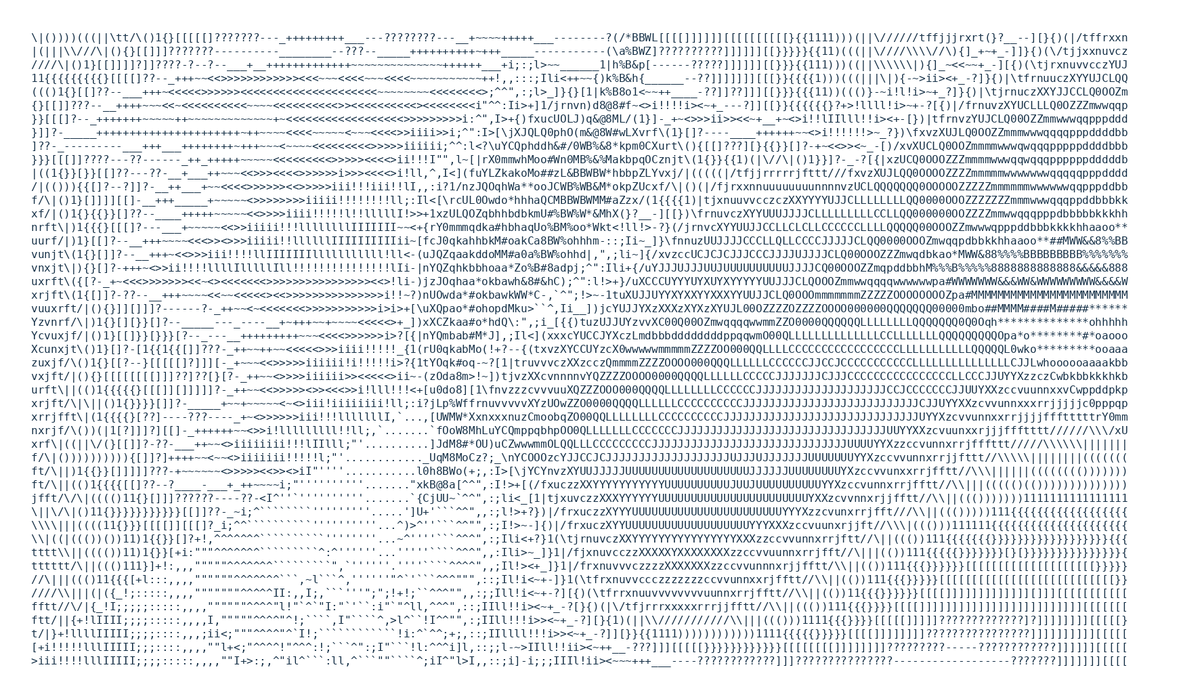
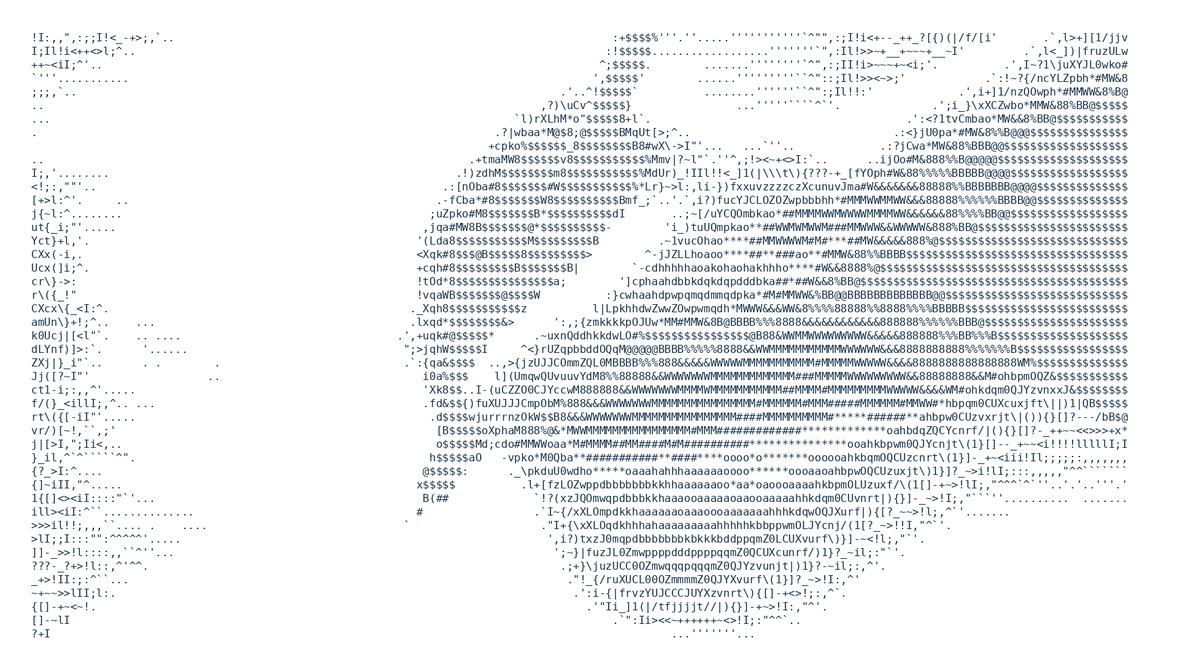
Boost ASCII hero contrast; add asciify --contrast flag
- Add a --contrast flag to scripts/asciify.mjs (Jimp contrast op),
  documented in the tool header and the MODULES.md ASCII section.
- Regenerate the Digital Body Language hero and feature image at
  --contrast 0.55 for a clearer, higher-contrast read.

Claude-Session: https://claude.ai/code/session_01HJod6BZzjwQrAt6JDoA6Vy

diff --git a/public/writing/digital-body-language/index.html b/public/writing/digital-body-language/index.html
@@ -66,53 +66,51 @@
         </div>
         <div class="col-lg-6 article-fold-media">
           <figure class="se-ascii" role="img" aria-label="A letter, written by hand" data-reveal="typewriter" data-reveal-drift>
-<pre class="se-ascii-art" aria-hidden="true">\|())))(((||\tt/\()1{}[[[[[]???????---_+++++++++___---????????---__+~~~~+++++___--------?(/*BBWL[[[[]]]]]][[[[[[[[[[}{{1111)))(||\//////tffjjjrxrt(}?__--][}{)(|/tffrxxn
-|(|||\\///\|(){}[[]]]???????----------________--???--_____++++++++++~+++_____-----------(\a%BWZ]??????????]]]]]][[}}}}}{{11)(((||\////\\\\//\){]_+~+_-]]}{)(\/tjjxxnuvcz
-////\|()1}[[]]]]?]]????-?--?--___+__+++++++++++++~~~~~~~~~~~~~~++++++___+i;:;l&gt;~~______1|h%B&amp;p[------?????]]]]]][[}}}{{111)))((||\\\\\\|){]_~&lt;&lt;~~+_-][{)(\tjrxnuvvcczYUJ
-11{{{{{{{{{}[[[[]??--_+++~~&lt;&lt;&gt;&gt;&gt;&gt;&gt;&gt;&gt;&gt;&gt;&gt;&gt;&gt;&lt;&lt;&lt;~~~&lt;&lt;&lt;&lt;~~~&lt;&lt;&lt;&lt;~~~~~~~~~~~++!,,:::;Ili&lt;++~~{)k%B&amp;h{______--??]]]]]]][[[}}{{{{1)))(((|||\|){-~&gt;ii&gt;&lt;+_-?]}{)|\tfrnuuczXYYUJCLQQ
-((()1{}[[]??--___+++~&lt;&lt;&lt;&lt;&lt;&gt;&gt;&gt;&gt;&gt;&gt;&lt;&lt;&lt;&lt;&lt;&lt;&lt;&lt;&lt;&lt;&lt;&lt;&lt;&lt;&lt;&lt;&lt;&lt;&lt;&lt;&lt;~~~~~~~~&lt;&lt;&lt;&lt;&lt;&lt;&lt;&lt;&gt;;^^",:;l&gt;_]}{}[1|k%B8o1&lt;~~++____-??]]??]]][[}}}{{{11))((()}-~i!l!i&gt;~+_?]}{)|\tjrnuczXXYJJCCLQ0OOZm
-{}[[]]???--__++++~~~&lt;&lt;~&lt;&lt;&lt;&lt;&lt;&lt;&lt;&lt;&lt;&lt;~~~~&lt;&lt;&lt;&lt;&lt;&lt;&lt;&lt;&lt;&lt;&gt;&gt;&lt;&lt;&lt;&lt;&lt;&lt;&lt;&lt;&lt;&lt;&gt;&lt;&lt;&lt;&lt;&lt;&lt;&lt;&lt;i"^^:Ii&gt;+]1/jrnvn)d8@8#f~&lt;&gt;i!!!!i&gt;&lt;~+_---?]][[}}{{{{{{}?+&gt;!llll!i&gt;~+-?[{)|/frnuvzXYUCLLLQ0OZZZmwwqqp
-}}[[[]?--_+++++++~~~~~++~~~~~~~~~~~~~+~&lt;&lt;&lt;&lt;&lt;&lt;&lt;&lt;&lt;&lt;&lt;&lt;&lt;&lt;&lt;&lt;&lt;&lt;&gt;&gt;&gt;&gt;&gt;&gt;&gt;&gt;&gt;i:^",I&gt;+{)fxucUOLJ)q&amp;@8ML/(1}]-_+~&lt;&gt;&gt;&gt;ii&gt;&gt;&lt;&lt;~+__+~&lt;&gt;i!!lIIlll!!i&gt;&lt;+-[})|tfrnvzYUJCLQ00OZZmmwwwqqpppddd
-}]]?-_____++++++++++++++++++++++~++~~~~&lt;&lt;&lt;&lt;~~~~~&lt;~~~&lt;&lt;&lt;&lt;&gt;&gt;iiii&gt;&gt;i;^":I&gt;[\jXJQLQ0phO(m&amp;@8W#wLXvrf\(1}[]?----____++++++~~&lt;&gt;i!!!!!!&gt;~_?})\fxvzXUJLQ0OOZZmmmwwwqqqqpppddddbb
-]??-_---------___+++___++++++++~+++~~~&lt;~~~~&lt;&lt;&lt;&lt;&lt;&lt;&lt;&lt;&lt;&gt;&gt;&gt;&gt;&gt;iiiiii;^^:l&lt;?\uYCQphddh&amp;#/0WB%&amp;8*kpm0CXurt\(){[[]???][}{{}}[]?-+~&lt;&lt;&gt;&gt;&lt;~_-[)/xvXUCLQ0OOZmmmmwwwqwqqqpppppddddbbb
-}}}[[[]]????---??------_++_+++++~~~~~&lt;&lt;&lt;&lt;&lt;&lt;&lt;&lt;&lt;&gt;&gt;&gt;&gt;&gt;&lt;&lt;&lt;&lt;&gt;ii!!!I"",l~[|rX0mmwhMoo#Wn0MB%&amp;%MakbpqOCznjt\(1{}}{{1)(|\//\|()1}}]?-_-?[{|xzUCQ0OOOZZZmmmmwwwqqwqqqppppppdddddb
-|((1{}}[}}[[]??---??-__+___++~~~&lt;&lt;&gt;&gt;&gt;&lt;&lt;&lt;&lt;&gt;&gt;&gt;&gt;&gt;&gt;i&gt;&gt;&gt;&lt;&lt;&lt;&lt;&gt;i!ll,^,I&lt;](fuYLZkakoMo##zL&amp;BBWBW*hbbpZLYvxj/|(((((|/tfjjrrrrrjfttt///fxvzXUJLQQ0OOOOZZZZmmmmmwwwwwwwqqqqqpppdddd
-/|(())){{[]?--?]]?-__++___+~~&lt;&lt;&lt;&lt;&gt;&gt;&gt;&gt;&gt;&gt;&lt;&lt;&gt;&gt;&gt;&gt;&gt;iii!!!iii!!lI,,:i?1/nzJQOqhWa**ooJCWB%WB&amp;M*okpZUcxf/\|()(|/fjrxxnnuuuuuuuunnnnvzUCLQQQQQQQ0OOOOOZZZZZmmmmmmwwwwwwqqpppddbb
-f/\|()1}[]]]][[]-__+++_____+~~~~~&lt;&gt;&gt;&gt;&gt;&gt;&gt;&gt;&gt;iiiii!!!!!!!!ll;:Il&lt;[\rcUL0Owdo*hhhaQCMBBWBWMM#aZzx/(1{{{{1)|tjxnuuvvcczczXXYYYYUJJCLLLLLLLLQQ0000OOOZZZZZZZmmmwwwqqqppddbbbkk
-xf/|()1{}{{}}[]??--____+++++~~~~~&lt;&lt;&gt;&gt;&gt;&gt;iiii!!!!!l!!lllllI!&gt;&gt;+1xzULQOZqbhhbdbkmU#%BW%W*&amp;MhX(}?__-][[})\frnuvczXYYUUUJJJJCLLLLLLLLLCCLLQQ000000OOZZZZmmwwqqqpppdbbbbbkkkhh
-nrft\|)1{{{}[[[]?---___+~~~~~&lt;&lt;&gt;&gt;iiiii!!!llllllllIIIIIII~~&lt;+{rY0mmmqdka#hbhaqUo%BM%oo*Wkt&lt;!ll!&gt;-?}(/jrnvcXYYUUJJCCLLCLCLLCCCCCCLLLLQQQQQ00OOOZZmwwwqpppddbbbkkkkhhaaoo**
-uurf/|)1}[[]?--__+++~~~~&lt;&lt;&lt;&gt;&gt;&lt;&gt;&gt;&gt;iiiii!!llllllIIIIIIIIIIii~[fcJ0qkahhbkM#oakCa8BW%ohhhm-::;Ii~_]}\fnnuzUUJJJJCCCLLQLLCCCCJJJJJCLQQ0000OOOZmwqqpdbbkkhhaaoo**##MWW&amp;&amp;8%%BB
-vunjt\(1{}[]]?--__+++~&lt;&lt;&gt;&gt;&gt;iii!!!!llIIIIIIIlllllllllll!ll&lt;-(uJQZqaakddoMM#a0a%BW%ohhd|,",;li~]{/xvzccUCJCJCJJJCCCJJJJUJJJJCLQ00OOOZZZmwqdbkao*MWW&amp;88%%%%BBBBBBBBB%%%%%%%
-vnxjt\|){}[]?-+++~&lt;&gt;&gt;ii!!!!llllIlllllIll!!!!!!!!!!!!!!!lIi-|nYQZqhkbbhoaa*Zo%B#8adpj;^":Ili+{/uYJJJUJJJUUJUUUUUUUUUUJJJJCQ00OOOZZmqpddbbhM%%%B%%%%%8888888888888&amp;&amp;&amp;&amp;&amp;888
-uxrft\({[?-_+~&lt;&lt;&lt;&gt;&gt;&gt;&gt;&gt;&gt;&gt;&lt;&lt;~&lt;&gt;&lt;&lt;&lt;&lt;&lt;&lt;&lt;&gt;&gt;&gt;&gt;&gt;&gt;&gt;&gt;&gt;&gt;&gt;&gt;&gt;&gt;&gt;&gt;&lt;&lt;&gt;!li-)jzJOqhaa*okbawh&amp;8#&amp;hC);^":l!&gt;+}/uXCCCUYYYUYXUYXYYYYYUUJJJCLQOOOZmmwwqqqqwwwwwwpa#WWWWWWW&amp;&amp;&amp;WW&amp;WWWWWWWWW&amp;&amp;&amp;&amp;W
-xrjft\(1{[]]?-??--__+++~~~~&lt;&lt;~~&lt;&lt;&lt;&lt;&lt;&gt;&lt;&lt;&gt;&gt;&gt;&gt;&gt;&gt;&gt;&gt;&gt;&gt;&gt;&gt;&gt;&gt;&gt;i!!~?)nUOwda*#okbawkWW*C-,`^";!&gt;~-1tuXUJJUYYXYXXYYXXXYYUUJJCLQ0OOOmmmmmmmZZZZZOOOOOOOOZpa#MMMMMMMMMMMMMMMMMMMMMMMM
-vuuxrft/|(){}]][]]]?------?-_++~~&lt;~&lt;&lt;&lt;&lt;&lt;&lt;&lt;&gt;&gt;&gt;&gt;&gt;&gt;&gt;&gt;&gt;&gt;&gt;i&gt;i&gt;+[\uXQpao*#ohopdMku&gt;``^,Ii__])jcYUJJYXzXXXzXYXzXYUJL00OZZZZOZZZZOOOO000000QQQQQQQ00000mbo##MMMM####M#####******
-Yzvnrf/\|)1{}[][}}[]?--_____---_----__+~+++~~+~~~~&lt;&lt;&lt;&lt;&lt;&gt;+_])xXCZkaa#o*hdQ\:",;i_[{{)tuzUJJUYzvvXC00Q00OZmwqqqqwwmmZZO0000QQQQQQLLLLLLLLQQQQQQQ0Q0Oqh**************ohhhhh
-Ycvuxjf/|()1}[[]}}[}}}[?--_---__+++++++++~~~&lt;&lt;&lt;&lt;&gt;&gt;&gt;&gt;&gt;&gt;i&gt;?[{|nYQmbab#M*J],;Il&lt;](xxxcYUCCJYXczLmdbbbddddddddppqqwmO00QLLLLLLLLLLLLLLCCLLLLLLLQQQQQQQQQOpa*o********#*oaooo
-Xcunxjt\()1}[]?-[1{{1{{[]]???-_++~~++~~&lt;&lt;&lt;&lt;&lt;&gt;&gt;&gt;iiii!!!!!_{1(rU0qkabMo(!+?--{(txvzXYCCUYzcX0wwwwwmmmmmZZZZOO000QQLLLLCCCCCCCCCCCCCCCCCLLLLLLLLLLLQQQQQL0wko*********ooaaa
-zuxjf/\()1{}[[?--}[[[[[]?]]][-_+~~~&lt;&lt;&gt;&gt;&gt;&gt;&gt;iiiiii!i!!!!!i&gt;?{1tYOqk#oq-~?[1|truvvvczXXzcczQmmmmZZZZOOOO000QQQLLLLLLCCCCCCJJCCJCCCCCCCCCCCLLLLLLLLLLLLLLLCJJLwhoooooaaaakbb
-vxjft/|(){}[[[[[[[[]]]??]??[}[?-_++~~&lt;&gt;&gt;&gt;&gt;iiiiii&gt;&gt;&lt;&lt;&lt;&lt;&lt;&gt;ii~-(zOda8m&gt;!~])tjvzXXcvnnnnvYQZZZZOOOO0000QQQQLLLLLLCCCCCJJJJJJJCJJJCCCCCCCCCCCCCCCCLLCCCJJUYYXzzczCwbkbbkkkhkb
-urft\||(()1{{{{{}[[[]][]]]]]?-_++~~&lt;&lt;&gt;&gt;&gt;&gt;&gt;&lt;&gt;&gt;&lt;&lt;&lt;&gt;&gt;i!lll!!!&lt;+[u0do8][1\fnvzzzcvvvuuXQZZZOOO000QQQQLLLLLLLLCCCCCCJJJJJJJJJJJJJJJJJJJJCCJCCCCCCCJJUUYXXzccvuunnxxvCwppddpkp
-xrjft/\|\||()1{}}}}[]]?-_____+~~+~~~~~&lt;~&lt;&gt;iii!iiiiiiii!ll;:i?jLp%WffrnuvvvvvXYzUOwZZO0000QQQQLLLLLLCCCCCCCCCCJJJJJJJJJJJJJJJJJJJJJJJJJJJCJJUYYXXzcvvunnxxxrrjjjjjc0pppqp
-xrrjfft\|(1{{{{}[??]----???----_+~&lt;&gt;&gt;&gt;&gt;&gt;&gt;iii!!!lllllllI,`...,[UWMW*XxnxxxnuzCmoobqZO00QQLLLLLLLLCCCCCCCCCCJJJJJJJJJJJJJJJJJJJJJJJJJJJJJJUYYXzcvvunnxxrrjjjjffftttttrY0mm
-nxrjf/\())(|1[?]]]?][[]-_++++++~~&lt;&gt;&gt;i!lllllllll!!ll;,`.......`fOoW8MhLuYCQmppqbhpOO0QLLLLLLLCCCCCCCJJJJJJJJJJJJJJJJJJJJJJJJJJJJJJJJUUYYXXzcvuunxxrjjjffftttt//////\\\/xU
-xrf\|((||\/(}[[]]?-??-___++~~&lt;&gt;iiiiiiii!!!lIIlll;"'..........]JdM8#*OU)uCZwwwmmOLQQLLLCCCCCCCCCJJJJJJJJJJJJJJJJJJJJJJJJJJJJJJUUUUYYXzzccvunnxrrjfffttt/////\\\\\\|||||||
-f/\|()))))))))){[]]?]++++~~&lt;~~&lt;&gt;iiiiiii!!!!!l;"'............_UqM8MoCz?;_\nYCOOOzcYJJCCJCJJJJJJJJJJJJJJJJJJJUJJJUJJJJJJJUUUUUUUYYXzccvvunnxrrjjfttt//\\\\\||||||||(((((((
-ft/\||)1{{}}[]]]]]???-+~~~~~~&lt;&gt;&gt;&gt;&gt;&gt;&lt;&lt;&gt;&gt;&lt;&gt;iI"''''...........l0h8BWo(+;,:I&gt;[\jYCYnvzXYUUJJJJJUUUUUUUUUUUUUUUUUUUJJJJJJUUUUUUUUYXzccvvunxxrrjfftt//\\\||||||(((((((()))))))
-ft/\||(()1{{{{[[]??--?____-___+_++~~~~i;"''''''''''......."xkB@8a[^^",:I!&gt;+[(/fxuczzXXYYYYYYYYYYYUUUUUUUUUUJUUJUUUUUUUUUUYYXzccvunnxrrjfftt//\\|||((((()(())))))))))))))
-jfft/\/\|(((()11{}[]]]??????----??-&lt;I^''`''''''''''.......`{CjUU~`^^",:;li&lt;_[1|tjxuvczzXXXYYYYYYUUUUUUUUUUUUUUUUUUUUUUUYXXzcvvnnxrjjfftt//\\||((()))))))1111111111111111
-\||\/\|()11{}}}}}}}}}}}[[]]??-_~i;^````````'''''''''.....']U+'```^^",,:;l!&gt;+?})|/frxuczzXYYYUUUUUUUUUUUUUUUUUUUUUUUYYYXzzcvunxrrjfft///\\||((()))))111{{{{{{{{{{{{{{{{{{
-\\\\|||((((11{}}}[[[[]][[[]?_i;^^``````````''''''''''...^)&gt;^''```^^"",:;I!&gt;~-]{)|/frxuczXYYUUUUUUUUUUUUUUUUUUUYYYXXXzccvuunxrjjft//\\\|((()))111111{{{{{{{{{{{{{{{{{{{{{
-\\|((|((())())11)1{{}}[]?+!,^^^^^^^``````````''''''''...~^''''```^^^",:;Ili&lt;+?}1(\tjrnuvczXXYYYYYYYYYYYYYYYYXXXzzccvvunnxrrjftt//\||((())111{{{{{{{}}}}}}}}}}}}}}}}}}{{{
-tttt\\||(((())11)1{}}[+i:"""^^^^^^^`````````^:^''''''...'''''````^^^",,:Ili&gt;~_]}1|/fjxnuvcczzXXXXXYXXXXXXXXzzccvvuunnxrrjfft//\|||(())111{{{{{}}}}}}}[}[}}}}}}}}}}}}}}}{
-tttttt/\||((()111}]+!:,,,"""""^^^^^^^`````````",`''''''.''''````^^^^",,;Il!&gt;&lt;+_]}1|/frxnuvvvczzzzXXXXXXXzzccvvunnnxrjjfftt/\\||(())111{{{}}}}}}[[[[[[[[[[[[[[[[[[[[}}}}}
-//\|||((()11{{{[+l:::,,,,""""""^^^^^^^```,~l```^,''''''"^`'```^^^""",::;Il!i&lt;~+-]}1(\tfrxnuvvccczzzzzzzccvvunnxxrjfftt//\\||(())111{{{}}}}}[[[[[[[[[[[[[[[[[[[[[[[[[[[}}
-////\\|||(|({_!;:::::,,,,"""""""^^^^^II:,,I;,```'''";";!+!;``^^^"",,:;;Ill!i&lt;~+-?][{)(\tfrrxnuuvvvvvvvvuunnxrrjfftt//\\||(())11{{{}}}}}}[[[[]]]]]]]]]]]]][]]][[[[[[[[[[[
-fftt//\/|{_!I;;;;;:::::,,,,""""""^^^^"l!"`^`"I:"`'``:i"`"^ll,^^^",::;IIll!!i&gt;&lt;~+_-?[}{)(|\/tfjrrrxxxxxrrrjjfftt//\\||((())111{{{}}}}[[[[]]]]]]]]]]]]]]]]]]]]]]]]][[[[[[[
-ftt/||{+!lIIII;;;;:::::,,,,I,"""""^^^^"^!;````,I"````^,&gt;l^``!I^^"",:;IIll!!!i&gt;&gt;&lt;~+_-?][}{1)(||\\///////////\\|||((()))1111{{{}}}}[[[[[]]]]]?????????????]?]]]]]]]][[[[[}
-t/|}+!llllIIIII;;;;::::,,,;ii&lt;;"""^^^^"^`I!;````````````!i:^`^^;+;,::;IIllll!!!i&gt;&gt;&lt;~+_-?]][}}{{1111))))))))))))1111{{{{{}}}}}[[[[]]]]]]]]????????????????]]]]]]]]]][[[[[
-[+i!!!!!lllIIIII;;;::::,,,,""l+&lt;;"^^^^!"^^^:!;```^":;I"```!l:^^^i]l,::;;l-~&gt;IIll!!ii&gt;&lt;~++__-???]]][[[[[}}}}}}}}}}}}[[[[[[[[]]]]]]]]?????????-----????????????]]]]]][[[[[
-&gt;iii!!!!lllIIIII;;;;:::::,,,,""I+&gt;:;,^"il^```:ll,^```""````^;iI^"l&gt;I,,::;i]-i;;;IIIl!ii&gt;&lt;~~~+++___----????????????]]]???????????????------------------???????]]]]]]][[[[</pre>
+<pre class="se-ascii-art" aria-hidden="true">!I:,,",:;;I!&lt;_-+&gt;;,`..                                                                   :+$$$$%'''.''.....'''''''''''`^"",:;I!i&lt;+--_++_?[{)(|/f/[i'       .`,l&gt;+][1/jjv
+I;Il!i&lt;++&lt;&gt;l;^..                                                                        :!$$$$$..................'''''''`",:Il!&gt;&gt;~+__+~~~+__~I'         .`,l&lt;_])|fruzULw
+++~&lt;iI;^'..                                                                            ^;$$$$$.        .......''''''''`^",:;II!i&gt;~~~+~&lt;i;'.          .',I~?1\juXYJL0wko#
+`'''...........                                                                       ',$$$$$'        ......'''''''''``^"::;Il!&gt;&gt;&lt;~&gt;;'            .`:!~?{/ncYLZpbh*#MW&amp;8
+;;;,`..                                                                          .'..^!$$$$$`          ........''''''``^":;Il!!:'             .',i+]1/nzQOwph*#MMWW&amp;8%B@
+..                                                                            ,?)\uCv^$$$$$}                ...'''''````^`'.              .';i_}\xXCZwbo*MMW&amp;88%BB@$$$$$
+...                                                                       `l)rXLhM*o"$$$$$8+l`.                                       .':&lt;?1tvCmbao*MW&amp;&amp;8%BB@$$$$$$$$$$$
+.                                                                      .?|wbaa*M@$8;@$$$$$BMqUt[&gt;;^..                               .:&lt;}jU0pa*#MW&amp;8%%B@@@$$$$$$$$$$$$$$$
+                                                                      +cpko%$$$$$$_8$$$$$$$$B8#wX\-&gt;I"'...   ...`''..             .:?jCwa*MW&amp;88%BBB@@$$$$$$$$$$$$$$$$$$$
+..                                                                 .+tmaMW8$$$$$$v8$$$$$$$$$$$%Mmv|?~l"`.''^,;!&gt;&lt;~+&lt;&gt;I:`..      ..ijOo#M&amp;888%%B@@@@@$$$$$$$$$$$$$$$$$$$$
+I;,'........                                                     .!)zdhM$$$$$$$$m8$$$$$$$$$$$%MdUr)_!IIl!!&lt;_]1(|\\\t\){???-+_[fYOph#W&amp;88%%%%%BBBBB@@@@$$$$$$$$$$$$$$$$$$
+&lt;!;:,""'..                                                     .:[nOba#8$$$$$$$#W$$$$$$$$$$$%*Lr}~&gt;l:,li-})fxxuvzzzzczXcunuvJma#W&amp;&amp;&amp;&amp;&amp;&amp;&amp;88888%%BBBBBBB@@@@$$$$$$$$$$$$$$
+[+&gt;l:^'.     ..                                               .-fCba*#8$$$$$$$W8$$$$$$$$$$Bmf_;`..'.`,i?)fucYJCLOZOZwpbbbhh*#MMMWWMMWW&amp;&amp;&amp;88888%%%%%%BBBB@@$$$$$$$$$$$$$$
+j{~l:^........                                               ;uZpko#M8$$$$$$$B*$$$$$$$$$$dI       ..;~[/uYCQOmbkao*##MMMMWWMWWWWMMMMWW&amp;&amp;&amp;&amp;&amp;&amp;88%%%%BB@@$$$$$$$$$$$$$$$$$$
+ut{_i;"'.....                                               ,jqa#MW8B$$$$$$$@*$$$$$$$$$$-        'i_)tuUQmpkao**##WWMWMWWM###MMWWW&amp;&amp;WWWWW&amp;888%BB@$$$$$$$$$$$$$$$$$$$$$$$
+Yct}+l,'.                                                  '(Lda8$$$$$$$$$$$M$$$$$$$$$B         .~1vucOhao****##MMWWWWM#M#***##MW&amp;&amp;&amp;&amp;&amp;888%@$$$$$$$$$$$$$$$$$$$$$$$$$$$$$
+CXx(-i,.                                                   &lt;Xqk#8$$$@B$$$$$8$$$$$$$$$&gt;        ^-jJZLLhoaoo****##**###ao**#MMW&amp;88%%BBBB$$$$$$$$$$$$$$$$$$$$$$$$$$$$$$$$$$
+Ucx(]i;^.                                                  +cqh#8$$$$$$$$$B$$$$$$$B|        `-cdhhhhhaoakohaohakhhho****#W&amp;&amp;8888%@$$$$$$$$$$$$$$$$$$$$$$$$$$$$$$$$$$$$$$
+cr\}-&gt;:                                                    !tOd*8$$$$$$$$$$$$$$$a;        ']cphaahdbbkdqkdqpdddbka##*##W&amp;&amp;8%BB@$$$$$$$$$$$$$$$$$$$$$$$$$$$$$$$$$$$$$$$$$
+r\({_!"                                                    !vqaWB$$$$$$$@$$$$W          :}cwhaahdpwpqmqdmmqdpka*#M#MMWW&amp;%BB@@BBBBBBBBBBBBB@@$$$$$$$$$$$$$$$$$$$$$$$$$$$$
+CXcx\{_&lt;I:^.                                              ._Xqh8$$$$$$$$$$$z          l|LpkhhdwZwwZOwpwmqdh*MWWW&amp;&amp;&amp;WW&amp;8%%%%88888%%8888%%%%BBBBB$$$$$$$$$$$$$$$$$$$$$$$$$
+amUn\}+!;^..    ...                                       .lxqd*$$$$$$$$&amp;&gt;      ':,;{zmkkkkpOJUw*MM#MMW&amp;8B@BBBB%%%8888&amp;&amp;&amp;&amp;&amp;&amp;&amp;&amp;&amp;&amp;&amp;&amp;888888%%%%%%BBB@$$$$$$$$$$$$$$$$$$$$$$
+k0Ucj|[&lt;l"`.    .. ....                                 .',+uqk#@$$$$$*      .~uxnQddhkkdwLO#%$$$$$$$$$$$$$$$$@B88&amp;WWMMWWWWWWWWW&amp;&amp;&amp;&amp;&amp;888888%%%BB%%%B$$$$$$$$$$$$$$$$$$$$
+dLYnf)]&gt;:`.      '......                                 ";&gt;jqhW$$$$$I     ^&lt;}rUZqpbbddOQqM@@@@@BBBB%%%%%8888&amp;&amp;WWMMMMMMMMMMMWWWWWW&amp;&amp;&amp;8888888888%%%%%%%B$$$$$$$$$$$$$$$$$
+ZXj|}_i"`..      . .        .                            .`:{qa&amp;$$$$  ..,&gt;{jzUJJCOmmZQL0MBBBB%%%888&amp;&amp;&amp;&amp;&amp;WWWWWMMMMMMMMMMM#MMMMMWWWWW&amp;&amp;&amp;&amp;8888888888888888WM%$$$$$$$$$$$$$$
+Jj([?~I"'                  ..                               i0a%$$$    l](UmqwQUvuuvYdM8%%88888&amp;&amp;WWWWWWWMMMMMMMMMMMMM###MMMMMWWWWWWWWW&amp;&amp;88888888&amp;&amp;M#ohbpmOQZ&amp;$$$$$$$$$$$
+ct1-i;:,,^'.....                                            'Xk8$$..I-(uCZZO0CJYccwM888888&amp;&amp;WWWWWWWMMMMWMMMMMMMMMMM##MMMM#MMMMMMMMMWWWWW&amp;&amp;&amp;&amp;WM#ohkdqm0QJYzvnxxJ&amp;$$$$$$$$
+f/(}_&lt;illI;,^.. ...                                         .fd&amp;$${)fuXUJJJCmpObM%888&amp;&amp;&amp;WWWWWWWMMMMMMMMMMMMMMMM#MMMMMM#MMM#####MMMMMM#MMWW#*hbpqm0CUXcuxjft\||)1|QB$$$$$
+rt\({[-iI"'.....                                             .d$$$$wjurrrnzOkW$$B8&amp;&amp;&amp;WWWWWWWMMMMMMMMMMMMMMMM####MMMMMMMMMM#*****######**ahbpw0CUzvxrjt\|()){}[]?---/bB$@
+vr/)[~!,``,;'                                                 [B$$$$$oXphaM888%@&amp;*MWWMMMMMMMMMMMMMMMM#MMM#############*************oahbdqZQCYcnrf/|(){}[]?-_++~~&lt;&lt;&gt;&gt;&gt;+x*
+j|[&gt;I,";Ii&lt;,..                                                o$$$$$Md;cdo#MMWWoaa*M#MMMM##MM####M#M##########***************ooahkbpwm0QJYcnjt\(1}[]--_+~~&lt;i!!!!lllllI;I
+}_il,^`^`````^".                                             h$$$$$aO   -vpko*M0Qba**###########**####****oooo*o*******oooooahkbqmOQCUzcnrt\(1}]-_+~&lt;iii!Il;;;;;:,,,,,,,
+{?_&gt;I:^....                                                 @$$$$$:      ._\pkduU0wdho*****oaaahahhhaaaaaaoooo******oooaaoahbpwOQCUzuxjt\)1}]?_~&gt;i!lI;:::,,,,,"^^```````
+{]~iII,"^.....                                             x$$$$$          .l+[fzLOZwppdbbbbbbbkkhhaaaaaaoo*aa*oaoooaaaahkbpmOLUzuxf/\(1[]-+~&gt;!lI;,"^^^`^`''..'.'..'''.'
+1{[]&lt;&gt;&lt;iI::::"`'...                                         B(##             `!?(xzJQOmwqpdbbbkkhaaaooaaaaaoaaooaaaaahhkdqm0CUvnrt|){}]-_~&gt;!I;,"```''..........  .......
+ill&gt;&lt;iI:^``..............                                  #                 .`I~{/xXLOmpdkkhaaaaaaoaaaoooaaaaaaahhhkdqwOQJXurf|){[?_~~&gt;!l;,^`'.......
+&gt;&gt;&gt;il!!;,,,``.... .    ....                              `                    ."I+{\xXLOqdkhhhahaaaaaaaaahhhhhkbbppwmOLJYcnj/(1[?_~&gt;!!I,"^`'.
+&gt;lI;;I:::"":^^^^^'.....                                                        ',i?)txzJ0mqpdbbbbbbbkbkkkbddppqmZ0LCUXvurf\)}]-~&lt;!l;,"`'.
+]]-_&gt;&gt;!l::::,,``^''...                                                          ';~}|fuzJL0ZmwppppdddppppqqmZ0QCUXcunrf/)1}?_~il;:"`'.
+???-_?+&gt;!l::,^'^^.                                                               .;+}\juzUCC0OZmwqqqpqqqmZ0QJYzvunjt|)1}?-~il;:,^'.
+_+&gt;!II:;:^``...                                                                   ."!_{/ruXUCL00OZmmmmZ0QJYXvurf\(1}]?_~&gt;!I:,^'
+~+~~&gt;&gt;lII;l:.                                                                      .':i-{|frvzYUJCCCJUYXzvnrt\){[]-+&lt;&gt;!;:,^`.
+{[]-+~&lt;~!.                                                                           .'"Ii_]1(|/tfjjjjt//|){}]-+~&gt;!I:,"^'.
+[]-~lI                                                                                   .`":Ii&gt;&lt;&lt;~++++++~&lt;&gt;!I;:"^^`..
+?+I                                                                                               ...'''''''...</pre>
           </figure>
         </div>
       </div>

diff --git a/public/writing/MODULES.md b/public/writing/MODULES.md
@@ -370,7 +370,7 @@ node scripts/asciify.mjs photo.png --cols 110 --figure --label "Portrait" --out 
 
 `ascii.js` scales the glyphs so the longest line fits the container, so detailed
 (wide) art never overflows or wraps. Generator flags: `--cols N` (more columns =
-more detail), `--ramp short|long`, `--color brand` (tint the glyphs with the brand palette), and `--invert` + `--on-lagoon` for light art on
+more detail), `--ramp short|long`, `--contrast N` (boost contrast before sampling, -1..1), `--color brand` (tint the glyphs with the brand palette), and `--invert` + `--on-lagoon` for light art on
 a dark Lagoon panel. Use it sparingly: a wink, per the brand's imagery rules.
 Needs `<script src="/assets/js/ascii.js" defer></script>`.
 
